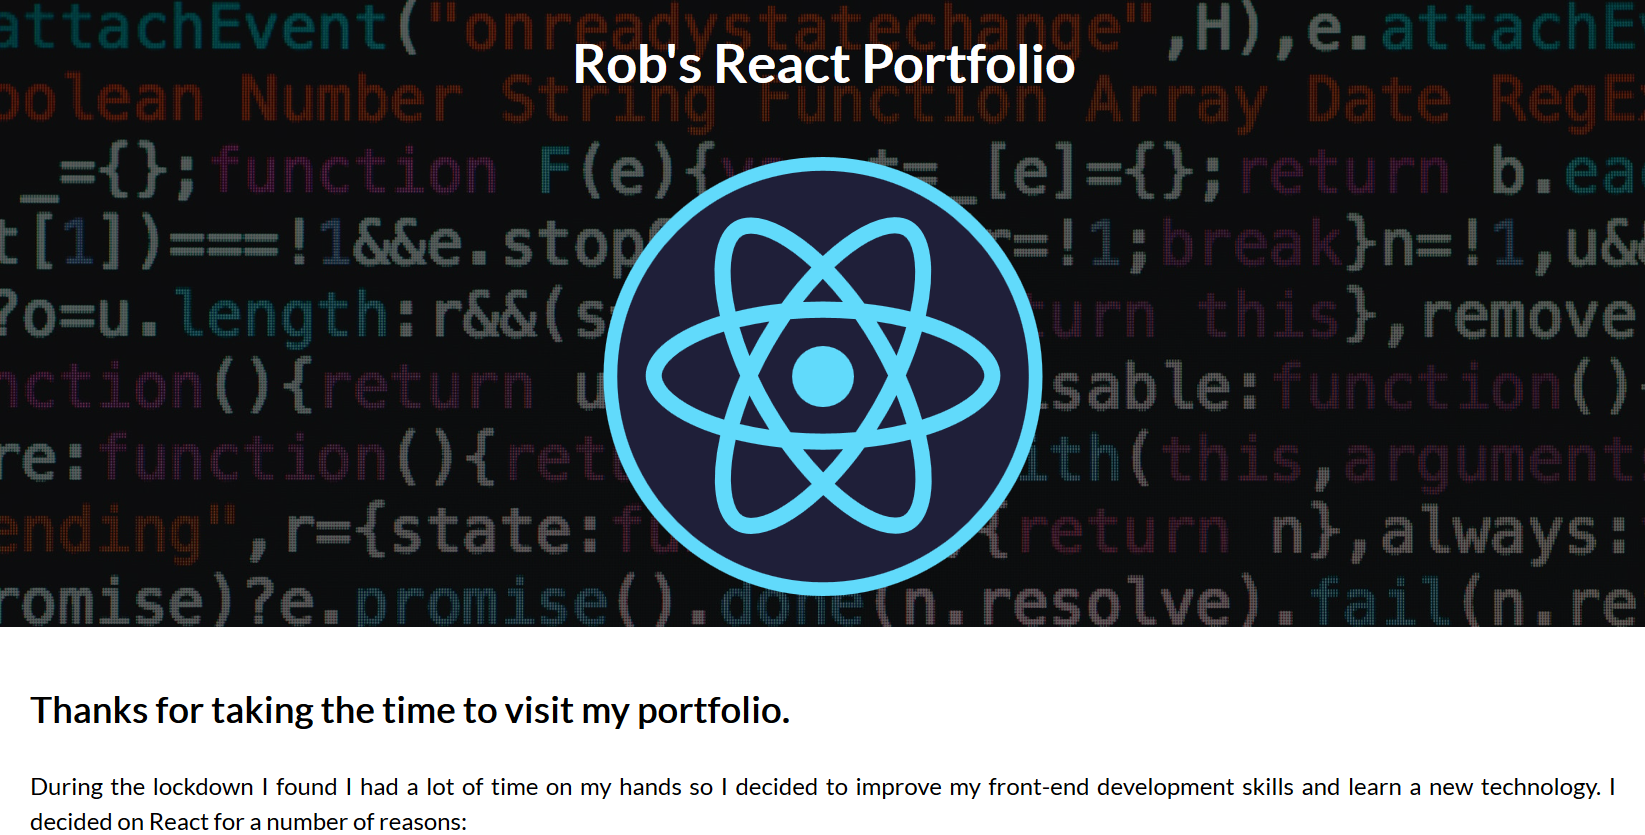
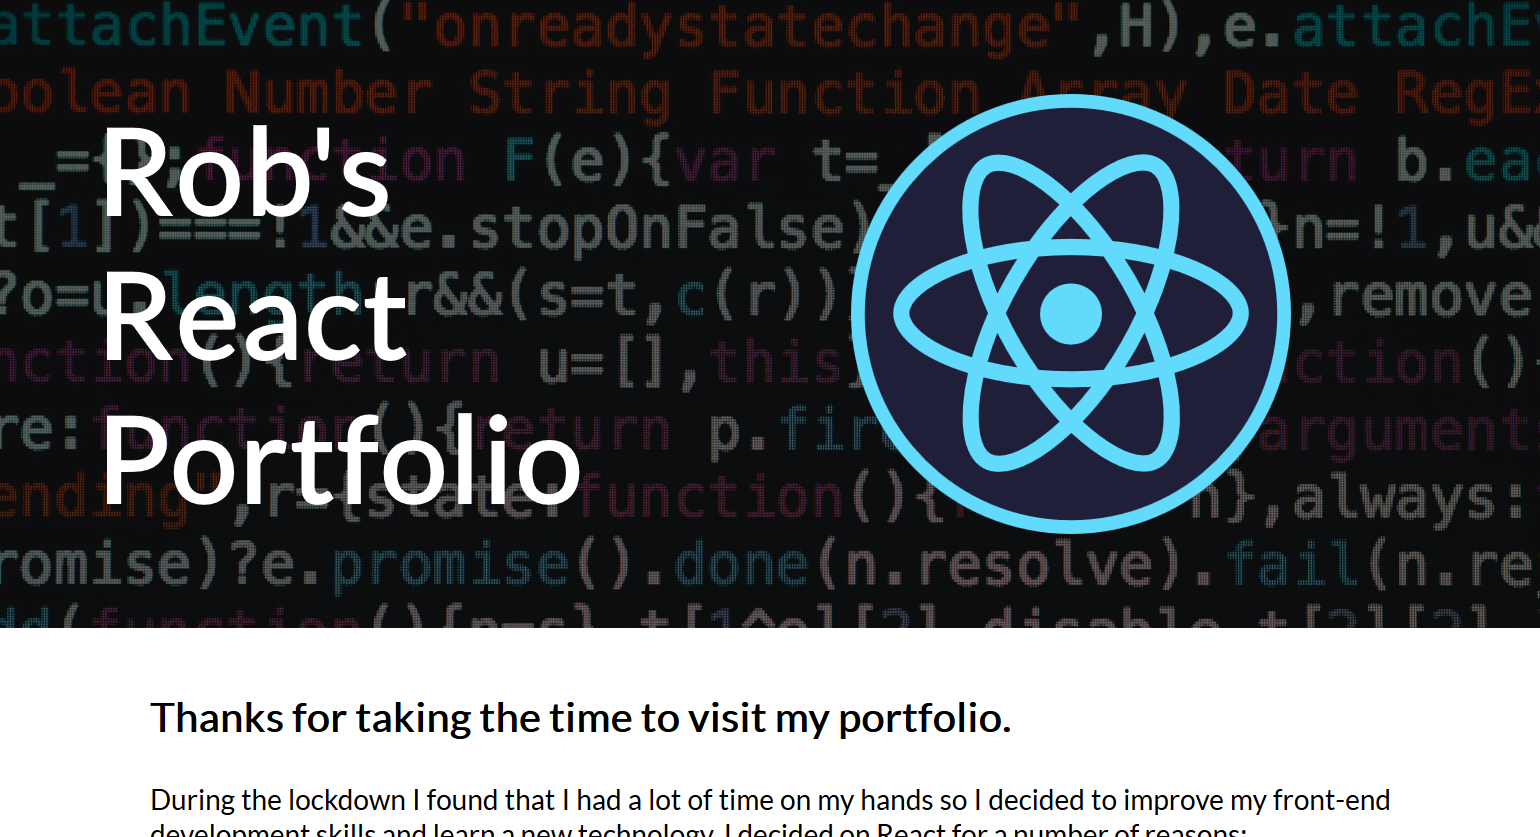
- Improved styling for tablet and desktop screen sizes.
- Some minor improvements for mobile screen sizes.
- Some typo fixes.

diff --git a/src/components/Intro/Intro.js b/src/components/Intro/Intro.js
@@ -5,13 +5,13 @@ function Intro(){
     return (
         <section className="intro">
             <h2>Thanks for taking the time to visit my portfolio.</h2>
-            <p>During the lockdown I found I had a lot of time on my hands so I decided to improve my front-end development skills and learn a new technology. I decided on React for a number of reasons:</p>
+            <p>During the lockdown I found that I had a lot of time on my hands so I decided to improve my front-end development skills and learn a new technology. I decided on React for a number of reasons:</p>
             <ul>
-                <li>It's highly popular amongst front-end developers with a huge community using it and sharing advice and tips online.</li>
-                <li>It's used by many world-class, high-profile companies and is highly in-demand by employers.</li>
+                <li>It's highly popular amongst front-end developers with a huge community using it and sharing advice and tips online</li>
+                <li>It's used by many world-class, high-profile companies and is highly in-demand by employers</li>
                 <li>It's actively maintained and supported by Facebook so it's not going away soon!</li>
             </ul> 
-            <p>I started by completing several React courses on <a href="https://scrimba.com">Scrimba</a> to learn the fundamentals, and then advanced to their full <a href="https://scrimba.com/course/greact/enrolled">Bootcamp</a>. This all took around six weeks but my skills have grown tremendously during that time. Scrimba alligned perfectly with my hands-on approach to learning and so after completing the courses and Bootcamp, I've put what I learnt into practise by building several small sites and web apps.</p>
+            <p>I started by completing several React courses on <a href="https://scrimba.com">Scrimba</a> to learn the fundamentals, and then advanced to their full <a href="https://scrimba.com/course/greact/enrolled">Bootcamp</a>. This all took around six weeks but my skills have grown tremendously during that time. Scrimba aligned perfectly with my hands-on approach to learning and so after completing the courses and Bootcamp, I've put what I learnt into practise by building several small sites and web apps.</p>
             <p>Below you'll find a list of apps that I've created to showcase what I've learnt. I've included a link to the Git repository for each one (they're all hosted using <a href="https://vercel.com/">Vercel</a> which has a limitation of one project or site per repository), so please feel free to take a look through the underlying code too. </p>
         </section>
         )

diff --git a/src/components/Hero/hero.css b/src/components/Hero/hero.css
@@ -2,22 +2,29 @@
     background-image: url("https://images.pexels.com/photos/965345/pexels-photo-965345.jpeg?auto=compress&cs=tinysrgb&dpr=2&h=750&w=1260");
     background-size: cover;
     height: 75vh;
-    display: flex;
-    flex-wrap: wrap;
-    justify-content: space-evenly;
+
   }
   
   .hero::before{
     height: 75vh;
     width: 100vw;
     background: #000000;
-    opacity: 0.6;
+    opacity: 0.7;
     position: absolute;
     top:0;
     left:0;
     content: ' '; 
   }
   
+  .hero-content-container {
+    display: flex;
+    flex-wrap: wrap;
+    justify-content: space-evenly;
+    position: relative;
+    height: 75vh;
+    align-items: center;
+  }
+
   .hero-content {
     color: white;
     position: relative;
@@ -25,21 +32,78 @@
   }
 
   .hero-title {
-      font-size: 2.2em;
+      font-size: 2em;
+  }
+
+  .hero-image-container{
+    display: flex;
   }
 
   .hero-image {
+      max-width: 300px;
       height: 70%;
       width: 70%;
   }
 
-  @media screen and (min-width: 645px){
+  @media screen and (max-width: 1024px) and (max-height: 700px){
+    .hero-image {
+      max-height: 200px;
+    }
 
-    .hero{
-        align-items: center;
+    .hero-title-container {
+      max-width: 50%;
+    }
+
+    .hero-title {
+      text-align: center;
+    }
+
+    .hero-image-container {
+      order: 2;
+      max-width: 50%;
+    }
+
+  }
+
+  @media screen and (min-width: 375px){
+    .hero-title {
+      font-size: 2.2em;
     }
 
     .hero-image {
+      max-width: 400px;
+    }
+  }
+
+
+  @media screen and (min-width: 645px){
+    .hero-image {
+      max-width: 500px;
+    }
+
+    .hero-title {
+      font-size: 4em;
+    }
+  }
+
+  @media screen and (min-width: 1024px){
+
+    .hero-content-container{
+        align-items: center;
+        max-width: 900px;
+        margin: 0 auto;
+    }
+
+    .hero-title-container{
+      max-width: 400px;
+    }
+
+    .hero-title {
+      font-size: 60pt;
+      padding: 50px;
+    }
+
+    .hero-image-container {
         order: 2
     }
   }

diff --git a/src/components/AppSections/appsections.css b/src/components/AppSections/appsections.css
@@ -24,16 +24,16 @@
     text-align: justify;
 }
 
+.app-section-image-container{
+    width: 95;
+}
+
 .app-section-image {
-    width: 95%;
+    width: 100%;
     border-radius: 10px;
     box-shadow: 0 2px 5px 0 #00000057;
     margin: 0 auto;
 }
-
-/*.app-section-image_flipped {
-    order: 2
-}*/
 
 .app-section-buttons{
     display:flex;
@@ -87,3 +87,44 @@
 }
 
 
+@media screen and (min-width: 645px){
+
+    .app-section{
+        padding: 20px;
+    }
+
+    .app-section-text-content h3{
+        font-size: 1.7em;
+    }
+
+    .app-section-buttons{
+        justify-content: space-evenly;
+    }
+
+    .app-section-button{
+        width: 150px;
+        text-align: center;
+        font-size: 1.1em;
+    }
+}
+
+@media screen and (min-width: 1024px){
+
+    .app-section{
+        max-width: 1500px;
+        align-items: center;
+        justify-content: space-evenly;
+    }
+
+    .app-section-image-container{
+        width: 47%;
+    }
+
+    .app-section-text-content{
+        width: 47%;
+    }
+
+    .app-section-image-container_flipped {
+        order: 2
+    }
+}

diff --git a/src/components/AppSections/AppSection.js b/src/components/AppSections/AppSection.js
@@ -10,17 +10,19 @@ function AppSection(props){
     return (
         <div className="app-section">
 
-            <img className={`app-section-image ${ isFlipped? "app-section-image_flipped" : ""}`}
-                src={image.url}
-                alt={image.altText}
-            />
+            <div className={`app-section-image-container ${ isFlipped? "app-section-image-container_flipped" : ""}`}> 
+                <img className="app-section-image"
+                    src={image.url}
+                    alt={image.altText}
+                />
+            </div>
 
             <div className="app-section-text-content">
                 <h3>{title}</h3>
                 
                 { paragraphs !== undefined && paragraphs.length > 0 && 
                 <div className="app-section-text-content-body">
-                    {paragraphs.map(paragraph => <p>{paragraph}</p>)}
+                    {paragraphs.map((paragraph, index) => <p key={index}>{paragraph}</p>)}
                 </div>
                 }
 

diff --git a/src/components/Hero/Hero.js b/src/components/Hero/Hero.js
@@ -4,12 +4,16 @@ import "./hero.css"
 function Hero(){
     return (
         <header className="hero">
-
-            <img className="hero-content hero-image"
-                src="./images/header-logo.svg"
-                alt="Header logo" />
-            <h1 className="hero-content hero-title">Rob's React Portfolio</h1>
-            
+            <div className="hero-content-container">
+                <div className="hero-image-container">
+                    <img className="hero-content hero-image"
+                        src="./images/header-logo.svg"
+                        alt="Header logo" />
+                </div>
+                <div className="hero-title-container">
+                    <h1 className="hero-content hero-title">Rob's React Portfolio</h1>
+                </div>
+            </div>
         </header>
     )
 }

diff --git a/src/components/Intro/intro.css b/src/components/Intro/intro.css
@@ -10,3 +10,37 @@
     padding: 10px 0;
     line-height: 23px;
 }
+
+@media screen and (min-width: 645px){
+
+    .intro{
+        padding: 20px 50px;
+    }
+
+    .intro h2 {
+        font-size: 1.5em;
+    }
+}
+
+@media screen and (min-width: 1024px){
+
+    .intro{
+        padding: 20px 100px;
+    }
+
+    .intro h2 {
+        font-size: 1.7em;
+    }
+
+    .intro p, .intro li {
+        font-size: 14pt;
+    }
+}
+
+
+@media screen and (min-width: 1200px){
+
+    .intro{
+        padding: 20px 140px;
+    }
+}
